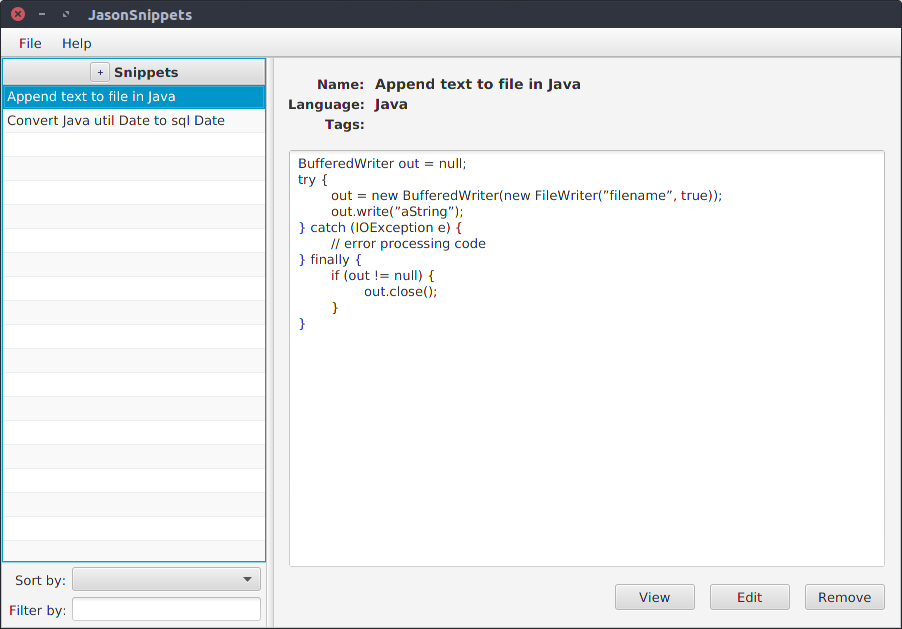
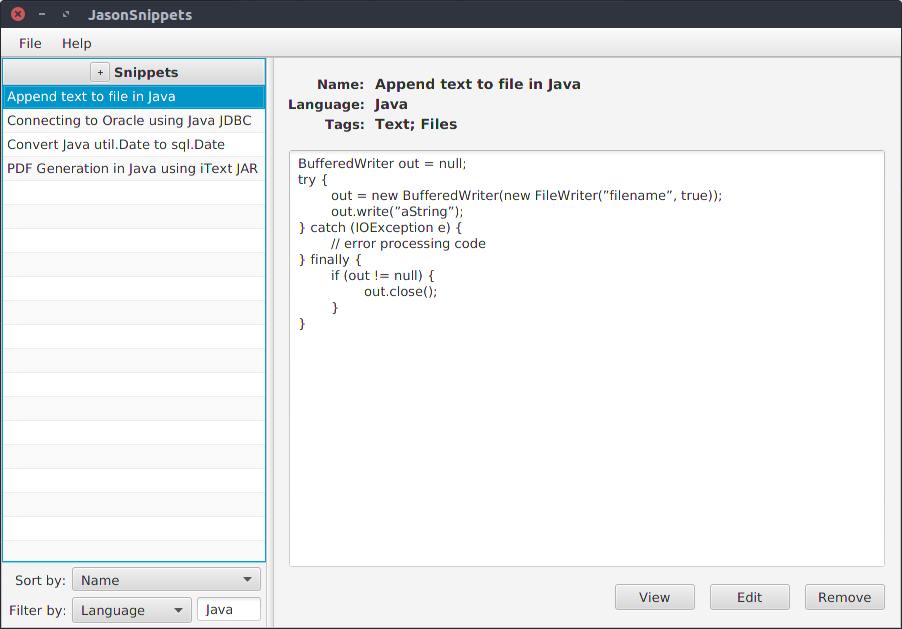
improve filter

diff --git a/app/src/io/github/nfdz/jason/view/SnippetsOverviewController.java b/app/src/io/github/nfdz/jason/view/SnippetsOverviewController.java
@@ -23,6 +23,8 @@ import java.util.logging.Logger;
 import io.github.nfdz.jason.MainApp;
 import io.github.nfdz.jason.SnippetsRepository;
 import io.github.nfdz.jason.SnippetsRepository.IOperationCallback;
+import io.github.nfdz.jason.model.Filter;
+import io.github.nfdz.jason.model.Filter.FilterType;
 import io.github.nfdz.jason.model.Snippet;
 import io.github.nfdz.jason.model.SnippetDateComparator;
 import io.github.nfdz.jason.model.SnippetLanguageComparator;
@@ -62,7 +64,7 @@ public class SnippetsOverviewController {
     /** Interface of a listener that wants to know what snippet is showing */
     public static interface IOverviewListener {
         void selectedSnippet(Snippet snippet);
-        void selectedFilter(String filter);
+        void selectedFilter(Filter filter);
         void selectedSort(SortType sort);
     }
     
@@ -84,6 +86,8 @@ public class SnippetsOverviewController {
     private FilteredList<Snippet> mFilteredData;
     
     private SortedList<Snippet> mSortedData;
+    
+    private FilterType mFilterType;
 
     @FXML
     private TableView<Snippet> mSnippetsTable;
@@ -114,9 +118,12 @@ public class SnippetsOverviewController {
     
     @FXML
     private ComboBox<String> mSortCombo;
-    
+
     @FXML
     private TextField mFilterField;
+    
+    @FXML
+    private ComboBox<String> mFilterCombo;
     
     public SnippetsOverviewController() {
         mListeners = new CopyOnWriteArrayList<>();
@@ -138,6 +145,13 @@ public class SnippetsOverviewController {
                 SortType.LANGUAGE.getText(),
                 SortType.DATE.getText()
         );
+        
+        // initialize filter combo
+        mFilterCombo.getItems().addAll(
+                FilterType.NAME.getText(),
+                FilterType.LANGUAGE.getText(),
+                FilterType.TAGS.getText()                
+        );
                 
         // clear snippet details
         showSnippetDetails(null);
@@ -152,35 +166,30 @@ public class SnippetsOverviewController {
         // add listener of filter text field
         mFilterField.textProperty().addListener((observable, oldValue, newValue) -> {
             if (mFilteredData != null) {
-                mFilteredData.setPredicate(snippet -> {
-                    // if filter text is empty, display all snippets
-                    if (newValue == null || newValue.isEmpty()) {
-                        return true;
+                updateFilter(new Filter(newValue, mFilterType));
+            }
+        });
+        
+        // add listener of filter combo box
+        mFilterCombo.valueProperty().addListener(new ChangeListener<String>() {
+            @Override
+            public void changed(ObservableValue<? extends String> ov, String oldValue, String newValue) {
+                if (mFilteredData != null) {
+                    FilterType filter = FilterType.parseText(newValue);
+                    if (filter != mFilterType) {
+                        mFilterType = filter;
+                        updateFilter(new Filter(mFilterField.getText(), mFilterType));
                     }
-
-                    // TODO take from preferences the fields to match with filter
-                    
-                    // compare name, language and tags with filter text
-                    String lowerCaseFilter = newValue.toLowerCase();
-
-                    if (snippet.getName().toLowerCase().contains(lowerCaseFilter)) return true; // filter matches name
-                    if (snippet.getLanguage().toLowerCase().contains(lowerCaseFilter)) return true; // filter matches language
-                    
-                    for (String tag : snippet.getTags()) {
-                        if (tag.toLowerCase().contains(lowerCaseFilter)) return true; // filter matches this tag
-                    }
-                    return false; // does not match
-                });
-                notifySelectedFilter(newValue);
+                }
             }
         });
         
         // add listener of sort combo box
         mSortCombo.valueProperty().addListener(new ChangeListener<String>() {
             @Override 
-            public void changed(@SuppressWarnings("rawtypes") ObservableValue ov, String t, String t1) {
+            public void changed(ObservableValue<? extends String> ov, String oldValue, String newValue) {
                 if (mSortedData != null) {
-                    SortType sort = SortType.parseText(t1);
+                    SortType sort = SortType.parseText(newValue);
                     switch (sort) {
                         case NAME:
                             mSortedData.setComparator(new SnippetNameComparator());
@@ -198,6 +207,33 @@ public class SnippetsOverviewController {
                 }
             }    
         });
+        
+    }
+    
+    private void updateFilter(Filter filter) {
+        mFilteredData.setPredicate(snippet -> {
+            // if filter is empty, display all snippets
+            if (filter == null || 
+                filter.getText() == null ||
+                filter.getText().isEmpty() ||
+                filter.getType() == null) {
+                return true;
+            }
+            
+            // compare name, language and tags with filter text
+            String lowerCaseFilter = filter.getText().toLowerCase();
+
+            switch(filter.getType()) {
+                case NAME: return snippet.getName().toLowerCase().contains(lowerCaseFilter);
+                case LANGUAGE: return snippet.getLanguage().toLowerCase().contains(lowerCaseFilter);
+                case TAGS:
+                    for (String tag : snippet.getTags()) {
+                        if (tag.toLowerCase().contains(lowerCaseFilter)) return true; // filter matches this tag
+                    }
+            }
+            return false; // does not match
+        });
+        notifySelectedFilter(filter);
     }
     
     /**
@@ -449,7 +485,7 @@ public class SnippetsOverviewController {
         }
     }
     
-    private void notifySelectedFilter(String filter) {
+    private void notifySelectedFilter(Filter filter) {
         for (IOverviewListener listener : mListeners) {
             listener.selectedFilter(filter);
         }
@@ -478,8 +514,9 @@ public class SnippetsOverviewController {
         mSnippetsTable.getSelectionModel().select(snippet);
     }
     
-    public void selectFilter(String filter) {
-        mFilterField.textProperty().set(filter);
+    public void selectFilter(Filter filter) {
+        mFilterField.textProperty().set(filter.getText());
+        mFilterCombo.setValue(filter.getType().getText());
     }
     
     public void selectSort(SortType sort) {

diff --git a/app/src/io/github/nfdz/jason/PreferencesUtils.java b/app/src/io/github/nfdz/jason/PreferencesUtils.java
@@ -14,11 +14,14 @@ package io.github.nfdz.jason;
 
 import java.util.prefs.Preferences;
 
+import io.github.nfdz.jason.model.Filter;
 import io.github.nfdz.jason.model.SortType;
+import io.github.nfdz.jason.model.Filter.FilterType;
 
 public class PreferencesUtils {
     
     private final static String OPENED_SNIPPET_KEY = "openedSnippet";
+    private final static String FILTER_TYPE_KEY = "filterType";
     private final static String FILTER_TEXT_KEY = "filterText";
     private final static String SORT_KEY = "sortBy";
 
@@ -26,7 +29,7 @@ public class PreferencesUtils {
     /**
      * Returns the hash code of the last opened snippet. If no such
      * preference can be found, -1 is returned.
-     * @return
+     * @return int snippet hash code
      */
     public static int getSelectedSnippetHashCode() {
         Preferences prefs = Preferences.userNodeForPackage(MainApp.class);
@@ -47,21 +50,38 @@ public class PreferencesUtils {
         }
     }
 
-    public static String getSelectedFilter() {
+    /**
+     * Gets the last selected filter stored. If no such preference can be found
+     * it will return null.
+     * @return Filter or null
+     */
+    public static Filter getSelectedFilter() {
         Preferences prefs = Preferences.userNodeForPackage(MainApp.class);
-        return prefs.get(FILTER_TEXT_KEY, "");
+        String text = prefs.get(FILTER_TEXT_KEY, "");
+        String typeText = prefs.get(FILTER_TYPE_KEY, "");
+        FilterType type = FilterType.parseText(typeText);
+        return type == null ? null : new Filter(text, type);
     }
     
-    public static void setSelectedFilter(String filter) {
+    public static void setSelectedFilter(Filter filter) {
         Preferences prefs = Preferences.userNodeForPackage(MainApp.class);
-        if (filter == null || filter.isEmpty()) {
+        if (filter == null || 
+            filter.getText() == null ||
+            filter.getText().isEmpty() ||
+            filter.getType() == null) {
             // there is no filter, clear last one
             prefs.remove(FILTER_TEXT_KEY);
         } else {
-            prefs.put(FILTER_TEXT_KEY, filter);
+            prefs.put(FILTER_TEXT_KEY, filter.getText());
+            prefs.put(FILTER_TYPE_KEY, filter.getType().getText());
         }
     }
 
+    /**
+     * Gets the last selected sort stored. If no such preference can be found
+     * it will return null.
+     * @return SortType or null
+     */
     public static SortType getSelectedSort() {
         Preferences prefs = Preferences.userNodeForPackage(MainApp.class);
         return SortType.parseText(prefs.get(SORT_KEY, ""));

diff --git a/app/src/io/github/nfdz/jason/MainApp.java b/app/src/io/github/nfdz/jason/MainApp.java
@@ -17,8 +17,10 @@ import java.util.logging.Level;
 import java.util.logging.Logger;
 
 import io.github.nfdz.jason.SnippetsRepository.IOperationCallback;
+import io.github.nfdz.jason.model.Filter;
 import io.github.nfdz.jason.model.Snippet;
 import io.github.nfdz.jason.model.SortType;
+import io.github.nfdz.jason.model.Filter.FilterType;
 import io.github.nfdz.jason.model.serialization.JsonSerializer;
 import io.github.nfdz.jason.persistence.ISnippetsPersistence;
 import io.github.nfdz.jason.persistence.fs.FileSystemPersistence;
@@ -146,8 +148,8 @@ public class MainApp extends Application {
      */
     private void resumeApp(SnippetsOverviewController controller) {
         // last selected filter
-        String filter = PreferencesUtils.getSelectedFilter();
-        if (filter == null) filter = "";
+        Filter filter = PreferencesUtils.getSelectedFilter();
+        if (filter == null) filter = new Filter("", FilterType.NAME);
         controller.selectFilter(filter);
         
         // last selected
@@ -178,7 +180,7 @@ public class MainApp extends Application {
         }
 
         @Override
-        public void selectedFilter(String filter) {
+        public void selectedFilter(Filter filter) {
             PreferencesUtils.setSelectedFilter(filter);
         }
 
